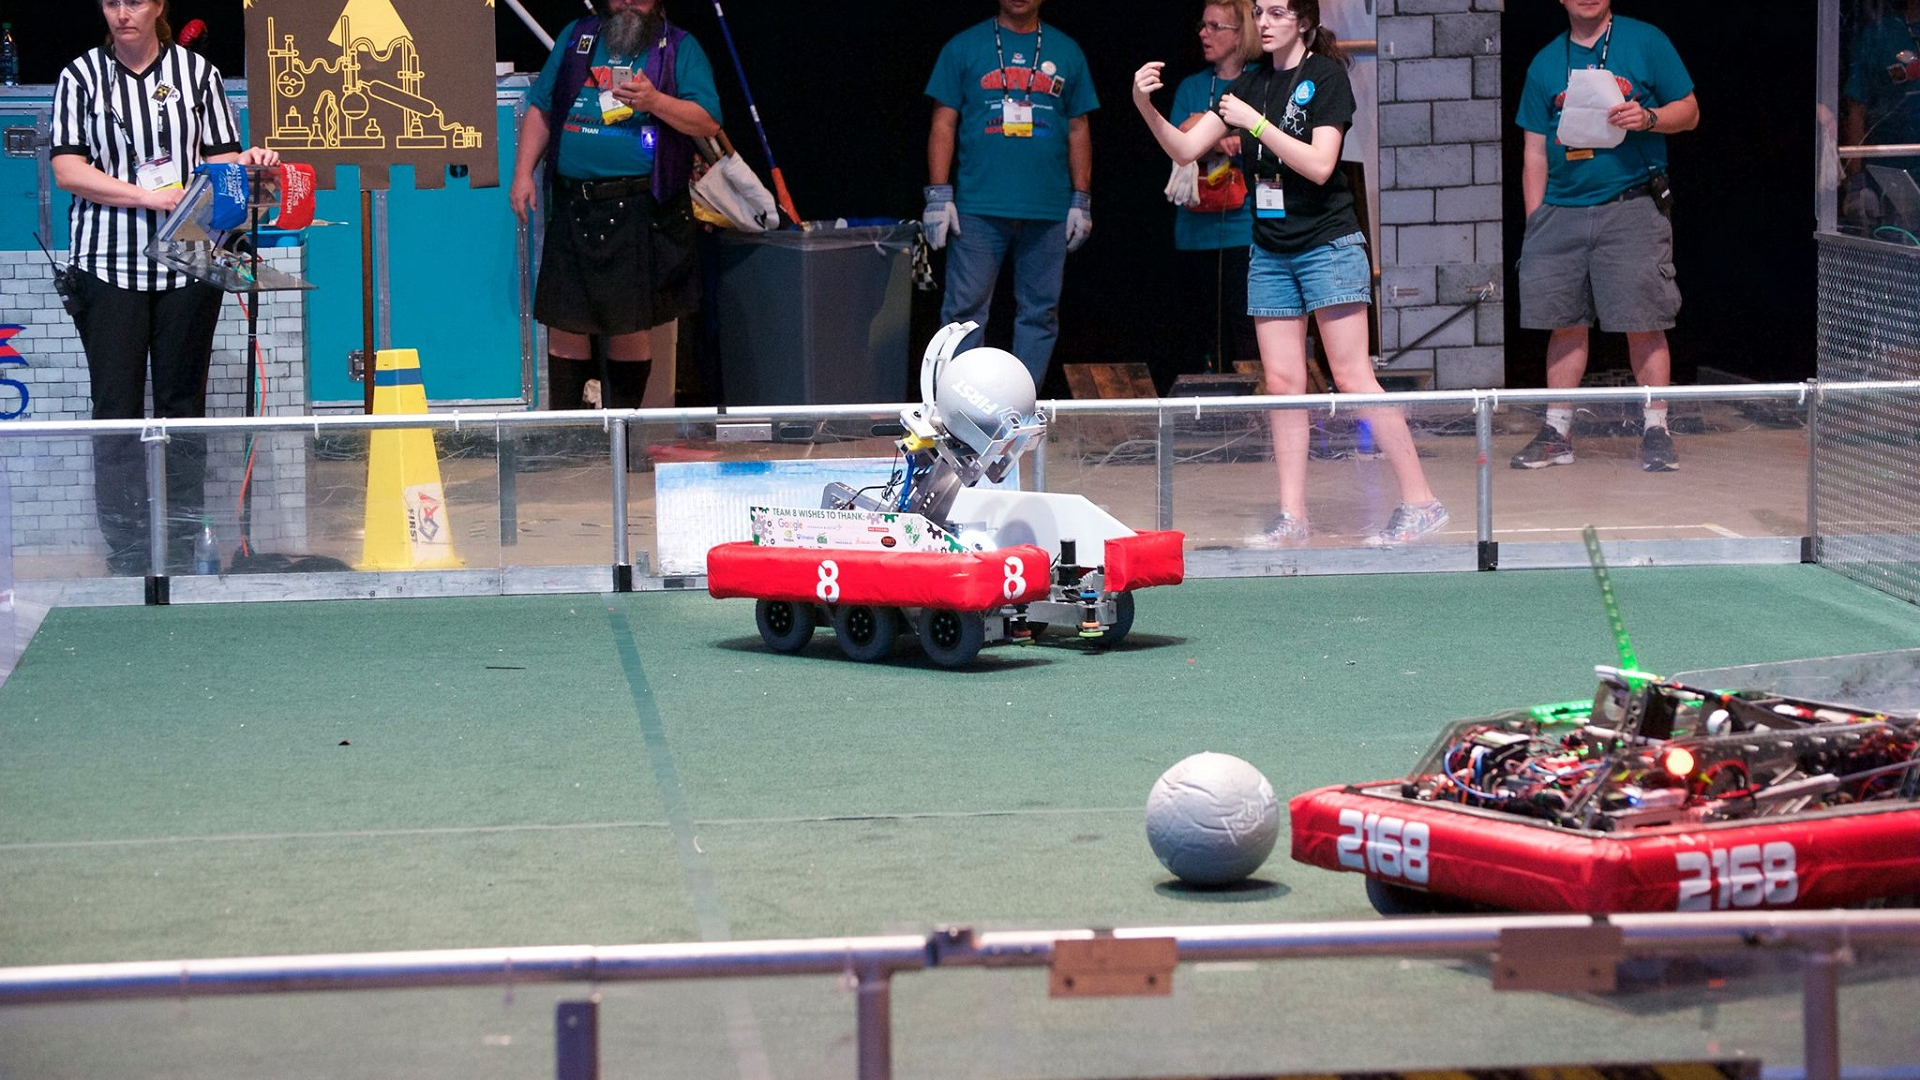
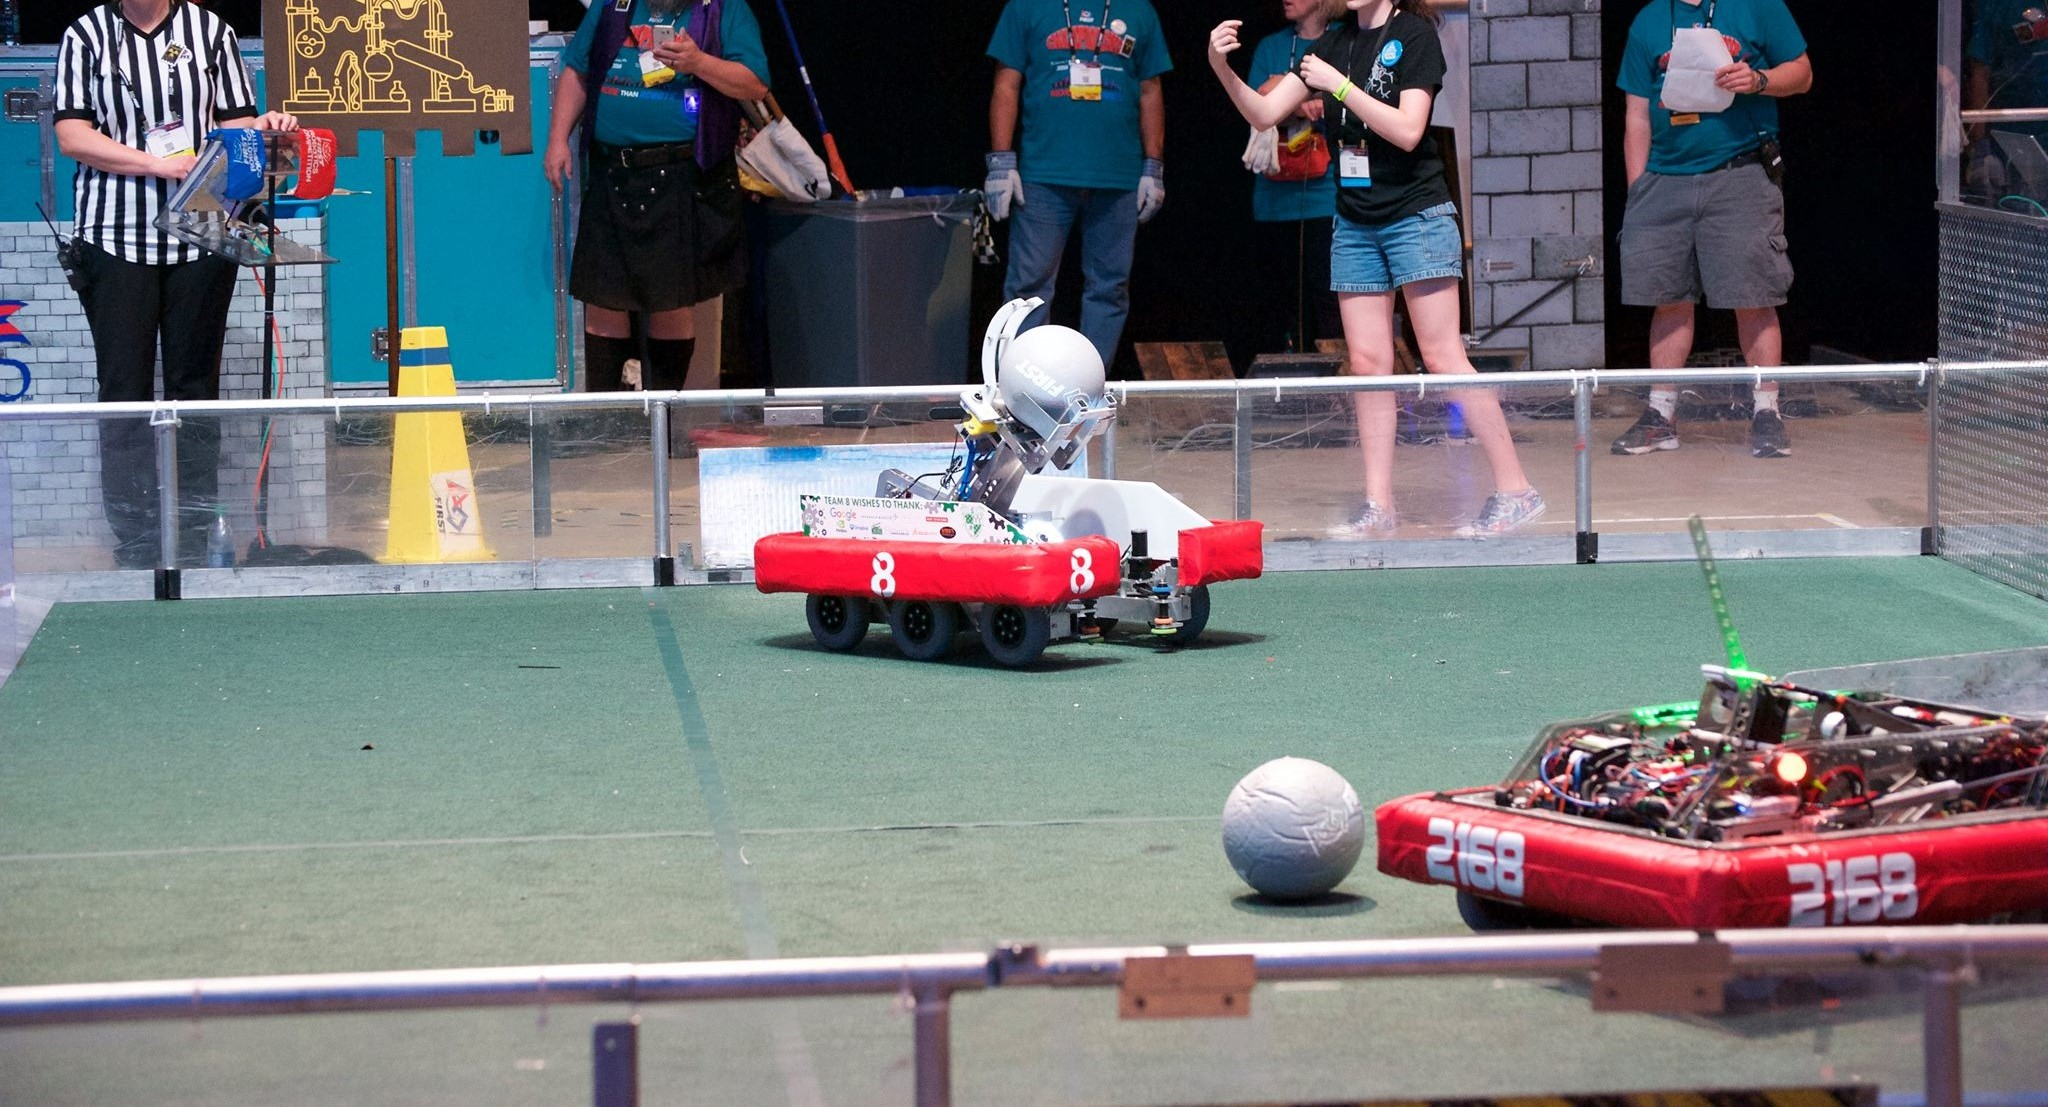
finally figured out how to size images depending on windows size, however this poses new issues...

diff --git a/Paly-Robotics-Web/index.html b/Paly-Robotics-Web/index.html
@@ -67,12 +67,13 @@
    <!-- Carousel stuff starts here///////////////////////////////////////// -->
 <div id="Home">
 </div>
+<div class="fill">
 <div id="myCarousel" class="carousel slide" data-ride="carousel" interval="6000">
   <!-- Indicators -->
   <ol class="carousel-indicators">
-    <li data-target="#myCarousel" data-slide-to="0" class="active"></li>
-    <li data-target="#myCarousel" data-slide-to="1"></li>
-    <li data-target="#myCarousel" data-slide-to="2"></li>
+    <li data-target="#myCarousel" data-slide-to="0" class="active no-green"></li>
+    <li data-target="#myCarousel" data-slide-to="1" class="no-green"></li>
+    <li data-target="#myCarousel" data-slide-to="2" class="no-green"></li>
   </ol>
 
   <!-- Wrapper for slides -->
@@ -87,7 +88,7 @@
     </div>
 
     <div class="item">
-      <img src="tyr1.jpg" class="tyr1" alt="Tyr">
+      <img src="tyr.jpg" class="tyr1" alt="Tyr">
       	<div class="container">
       		<div class="carousel-caption">
       			<h2 class="tyr-header">Team 8's FIRST Stronghold Robot: Tyr</h2>
@@ -114,6 +115,7 @@
     <span class="glyphicon glyphicon-chevron-right" aria-hidden="true"></span>
     <span class="sr-only">Next</span>
   </a>
+</div>
 </div>
 
    <!-- Carousel stuff ends here/////////////////////////////////////////// -->
@@ -188,7 +190,7 @@
 	   	</div>
       <div class="col-md-6">
           <h3 class="sponsorsh3" id="Sponsors">Sponsors</h3>
-          <p class="p-sponsors">Our robotics team needs money to be able to thrive, and for this reason we depend on our gracious sponsors. We welcome donations of all amounts. To view our sponsors check out our <a href="sponsors-page.html" class="paragraph-links">Sponsors</a> page, and if you wish to donate money and support Paly Robotics, please go to our <a href="" class="paragraph-links">Sponsor Us</a> page.</p>
+          <p class="p-sponsors">Our robotics team needs money to be able to thrive, and for this reason we depend on our gracious sponsors. We welcome donations of all amounts. To view our sponsors check out our <a href="sponsors-page.html" class="paragraph-links">Sponsors</a> page, and if you wish to donate money and support Paly Robotics, you can <a href="" class="paragraph-links">Sponsor Us Here</a> .</p>
           
       </div>
       <div class="col-md-12 sponsors-hr">

diff --git a/Paly-Robotics-Web/FIRST-page.html b/Paly-Robotics-Web/FIRST-page.html
@@ -39,10 +39,10 @@
         </div>
         <div class="navbar-collapse collapse">
           <ul class="nav navbar-nav navbar-right ">
-            <li class="active links"><a class="active links" href="#Home">Home</a></li>
-            <li class="links"><a class="links" href="#AboutUs">About Us</a></li>
-            <li class="links"><a class="links" href="#Subteams">Subteams</a></li>
-            <li class="links"><a class="links" href="#Sponsors">Sponsors</a></li>
+            <li class="links"><a class="links" href="index.html#Home">Home</a></li>
+            <li class="links"><a class="links" href="index.html#AboutUs">About Us</a></li>
+            <li class="links"><a class="links" href="index.html#Subteams">Subteams</a></li>
+            <li class="links"><a class="links" href="index.html#Sponsors">Sponsors</a></li>
             <li class="dropdown links">
               <a ref="#" class="dropdown-toggle links" data-toggle="dropdown">More<b class="caret"></b></a>
               <ul class="dropdown-menu">
@@ -80,7 +80,7 @@
 
    <!-- Footer starts here -->
 
-   <div class="navbar navbar-inverse navbar-static-bottom nav-bot" role="navigation">
+   <div class="navbar navbar-inverse navbar-fixed-bottom nav-bot" role="navigation">
       <div class="container foot">
         <div class="navbar-text pull-left">
           <p class="footer">© Paly Robotics 2016</p>

diff --git a/Paly-Robotics-Web/css/stylesheet.css b/Paly-Robotics-Web/css/stylesheet.css
@@ -1,3 +1,19 @@
+/*full carousel pics*/
+html, body{
+	height:100%;
+}
+.carousel, .item, .active{
+	height:100%;
+}
+.carousel-inner{
+	height:100%;
+}
+.fill{
+	width:100%;
+	height:100%;
+	background-position:center;
+	background-size:cover;
+}
 
 
 /*bigger top nav to make room for logo*/
@@ -44,16 +60,25 @@ a.links {
 }
 
 /*green underlines on links*/
-.links{
-	border-bottom: green transparent 3px;
+li.links{
+	border-bottom: green transparent px;
 }
-.links:hover{
-	border-bottom: green solid 3px;
-	transition:0.15s;
+li.links:hover{
+	border-bottom: green solid 5px;
+	transition:0.2s;
 }
 
 li.active{
- 	border-bottom:green solid 3px;
+ 	border-bottom:green solid 5px;
+ }
+ a.links{
+ 	background-color:#222 !important;
+ 	height:85px !important;
+ }
+ 
+ /*to counter the green effects for the indicators for the carousel*/
+ li.no-green{
+ 	border-bottom:white solid 1px;
  }
 /*collapsing stuff*/
 
@@ -151,7 +176,7 @@ b{
 /*All Navbar CSS ENDS HERE-----------------------------------*/
 /*Carousel CSS begins HERE-----------------------------------*/
 .slide {
-	padding-top:80px;
+	padding-top:103px;
 }
 /*getting rid of txt when at small size-------------------------------------*/
 

diff --git a/Paly-Robotics-Web/ZeroRobotics-page.html b/Paly-Robotics-Web/ZeroRobotics-page.html
@@ -38,10 +38,10 @@
         </div>
         <div class="navbar-collapse collapse">
           <ul class="nav navbar-nav navbar-right ">
-            <li class="active home"><a class="active home" href="index.html">Home</a></li>
-            <li class="links"><a class="links" href="#">About Us</a></li>
-            <li class="links"><a class="links" href="#">Subteams</a></li>
-            <li class="links"><a class="links" href="#">Sponsors</a></li>
+            <li class="links"><a class="links" href="index.html#Home">Home</a></li>
+            <li class="links"><a class="links" href="index.html#AboutUs">About Us</a></li>
+            <li class="links"><a class="links" href="index.html#Subteams">Subteams</a></li>
+            <li class="links"><a class="links" href="index.html#Sponsors">Sponsors</a></li>
             <li class="dropdown links">
               <a ref="#" class="dropdown-toggle links" data-toggle="dropdown">More<b class="caret"></b></a>
               <ul class="dropdown-menu">

diff --git a/Paly-Robotics-Web/sponsors-page.html b/Paly-Robotics-Web/sponsors-page.html
@@ -42,7 +42,7 @@
         </div>
         <div class="navbar-collapse collapse">
           <ul class="nav navbar-nav navbar-right ">
-            <li class="active home"><a class="active home" href="index.html">Home</a></li>
+            <li class="links"><a class="links" href="index.html">Home</a></li>
             <li class="links"><a class="links" href="#">About Us</a></li>
             <li class="links"><a class="links" href="#">Subteams</a></li>
             <li class="links"><a class="links" href="#">Sponsors</a></li>
